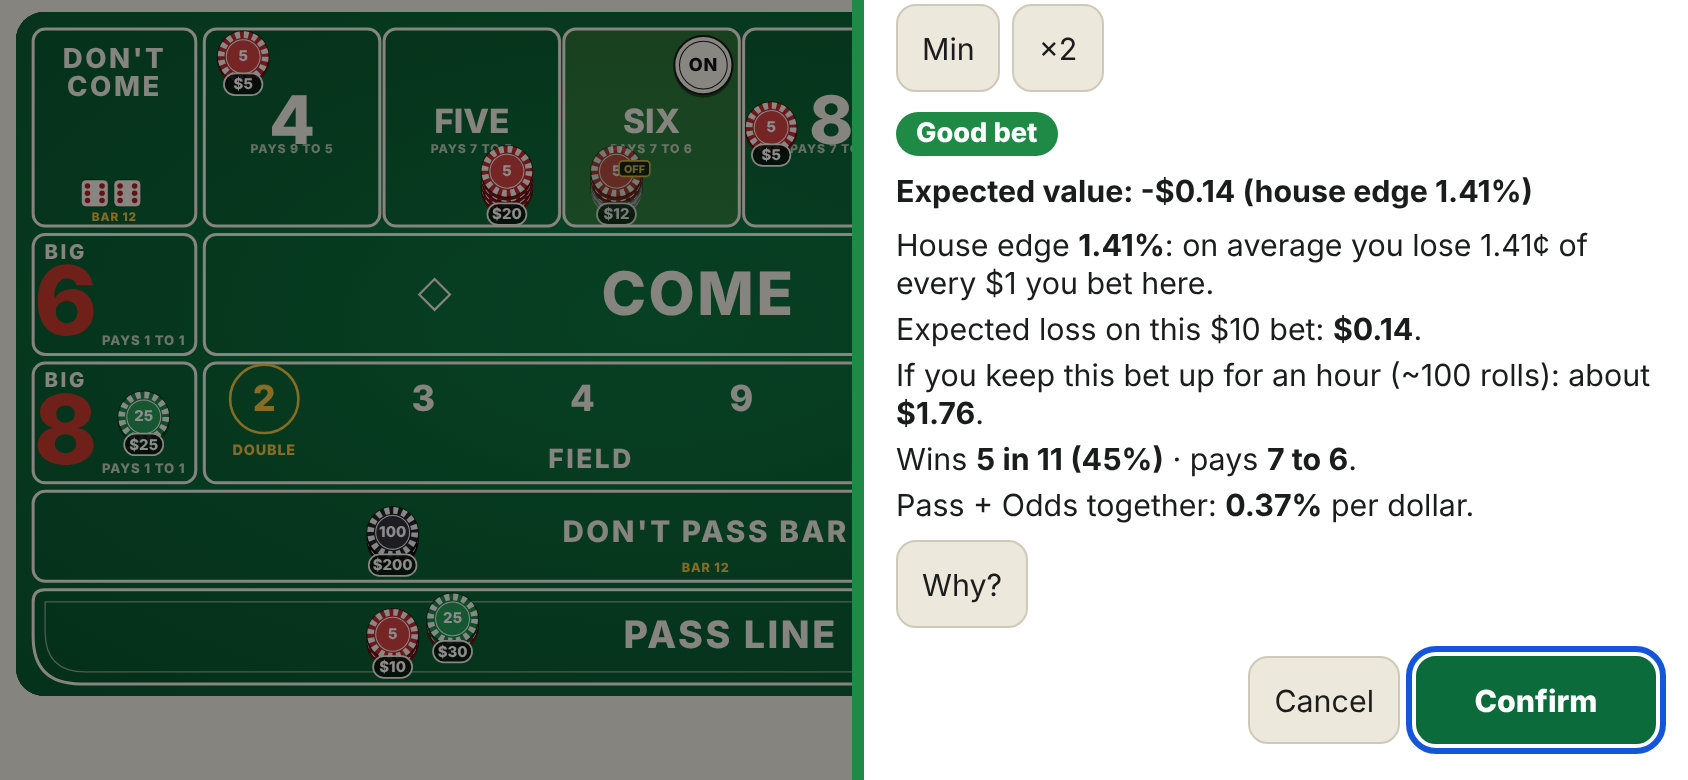
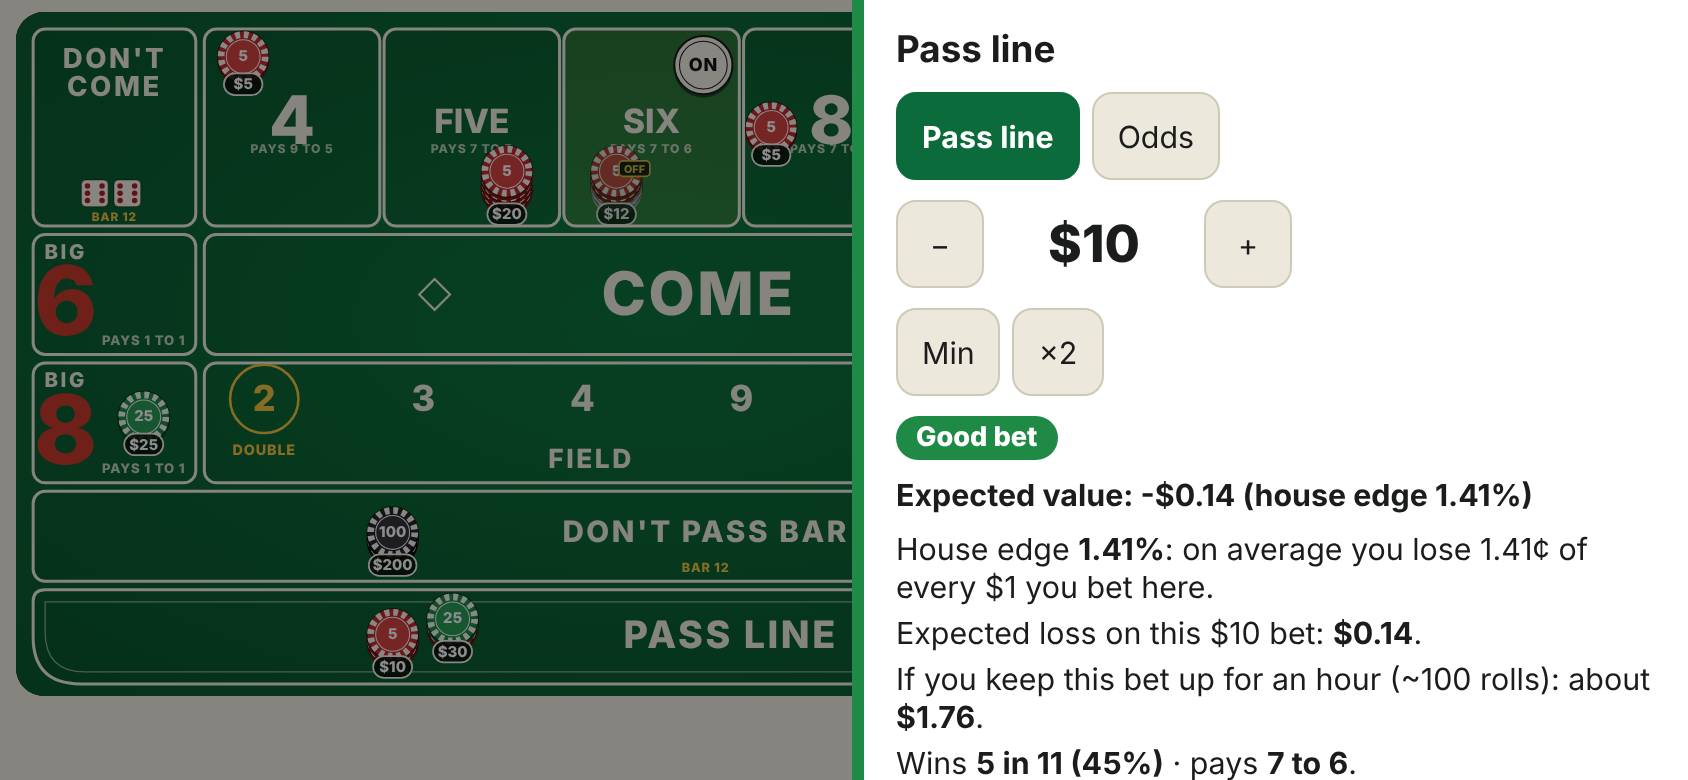
feat(sim-ui): use real math types (5 tiers, per-hour), add screenshots
Claude-Session: https://claude.ai/code/session_01J1AWazLL9vmYC2Y4rcKnaj

Changed region(s): [[0.5237, 0.0, 0.9858, 1.0]]

diff --git a/src/sim/ui/text.ts b/src/sim/ui/text.ts
@@ -1,4 +1,4 @@
-import type { ActionPreview } from '../math/types';
+import type { ActionPreview, EdgeTier } from '../math/types';
 import type { Bet, BetTypeId, Cents, GameEvent } from '../engine/types';
 import type { RegionDef } from './layouts/types';
 
@@ -63,7 +63,7 @@ export function betLabel(type: BetTypeId): string {
 
 // ---------- tiers (decisions.md: free | good | fair | poor | avoid) ----------
 
-export type UiTier = 'free' | 'good' | 'fair' | 'poor' | 'avoid';
+export type UiTier = EdgeTier;
 export const TIER_LABEL: Record<UiTier, string> = {
   free: 'Free bet',
   good: 'Good bet',
@@ -117,23 +117,21 @@ export interface EvFactsInput {
   oneRoll: boolean;
   chance: string;
   pays: string;
-  rollsPerHour?: number;
-  /** 392/557 for bets that are off on come-outs; default 1 */
-  workingFraction?: number;
   combined?: { label: string; edge: number } | null;
 }
 
-export function buildEvFacts(preview: Pick<ActionPreview, 'edge'>, input: EvFactsInput): EvFacts {
+/** Per-hour cost and rolls per hour come from the preview (math applies the 392/557 factor for off-on-come-out bets). */
+export function buildEvFacts(
+  preview: Pick<ActionPreview, 'edge' | 'perHourCents' | 'rollsPerHour'>,
+  input: EvFactsInput,
+): EvFacts {
   const edge = preview.edge ? fracToNumber(preview.edge.perResolved) : null;
-  const perRoll = preview.edge ? fracToNumber(preview.edge.perRoll) : null;
-  const rph = input.rollsPerHour ?? 100;
   return {
     amount: input.amount,
     edge,
     expectedLossCents: edge === null ? 0 : input.amount * edge,
-    perHourCents:
-      perRoll === null ? null : input.amount * perRoll * rph * (input.workingFraction ?? 1),
-    rollsPerHour: rph,
+    perHourCents: preview.edge ? fracToNumber(preview.perHourCents) : null,
+    rollsPerHour: preview.rollsPerHour,
     oneRoll: input.oneRoll,
     chance: input.chance,
     pays: input.pays,

diff --git a/src/sim/ui/components.test.tsx b/src/sim/ui/components.test.tsx
@@ -13,6 +13,7 @@ import { Toasts } from './Toasts';
 import { portraitLayout } from './layouts';
 import { buildEvFacts } from './text';
 import type { Bet, RollRecord } from '../engine/types';
+import type { EdgeTier } from '../math/types';
 
 afterEach(cleanup);
 
@@ -28,7 +29,7 @@ const bet = (id: string, type: Bet['type'], amount: number, point: Bet['point'] 
   vigPaid: 0,
 });
 
-function preview(tier: string, over: Partial<SheetPreview> = {}): SheetPreview {
+function preview(tier: EdgeTier, over: Partial<SheetPreview> = {}): SheetPreview {
   return {
     action: { type: 'place-bet', betType: 'pass-line', amount: 1000 },
     validation: { ok: true, warnings: [] },
@@ -41,6 +42,8 @@ function preview(tier: string, over: Partial<SheetPreview> = {}): SheetPreview {
     },
     tier,
     perRollCents: fr(-4),
+    perHourCents: fr(176),
+    rollsPerHour: 100,
     headline: 'Expected value: -$0.14 (house edge 1.41%)',
     detail: 'detail text',
     alternative: null,
@@ -297,7 +300,7 @@ describe('BetSheet', () => {
     ['poor', 'Costly'],
     ['avoid', 'Sucker bet'],
   ])('tier %s shows the label %s', (tier, label) => {
-    sheet({ preview: preview(tier) });
+    sheet({ preview: preview(tier as EdgeTier) });
     expect(screen.getAllByText(label).length).toBeGreaterThan(0);
   });
 

diff --git a/src/sim/ui/demo.tsx b/src/sim/ui/demo.tsx
@@ -116,8 +116,10 @@ function mockPreview(tier: EdgeTier | 'invalid'): SheetPreview {
       expectedRolls: frac(8),
       perRoll: frac(edgeN, 80000),
     },
-    tier: ({ invalid: 'good' } as Record<string, string>)[tier] ?? tier,
+    tier: tier === 'invalid' ? 'good' : tier,
     perRollCents: frac(-4),
+    perHourCents: frac(tier === 'avoid' ? 1389 : 176),
+    rollsPerHour: 100,
     headline,
     detail: "About -$0.04 per roll while it's working",
     alternative:

diff --git a/src/sim/ui/BetSheet.tsx b/src/sim/ui/BetSheet.tsx
@@ -4,7 +4,7 @@ import type { ActionPreview } from '../math/types';
 import { fmtMoney, fmtPct, fracToNumber, normalizeTier, TIER_LABEL, type EvFacts } from './text';
 import './sim.css';
 
-export type SheetPreview = Omit<ActionPreview, 'tier'> & { tier: string };
+export type SheetPreview = ActionPreview;
 
 export interface TypeOption {
   id: BetTypeId;

diff --git a/src/sim/ui/text.test.ts b/src/sim/ui/text.test.ts
@@ -123,6 +123,8 @@ describe('tiers and ev facts', () => {
           expectedRolls: { n: 1n, d: 1n },
           perRoll: { n: 1n, d: 216n },
         },
+        perHourCents: { n: 120000n, d: 216n },
+        rollsPerHour: 100,
       },
       { amount: 1200, oneRoll: false, chance: '5 in 11 (45%)', pays: '7 to 6' },
     );
